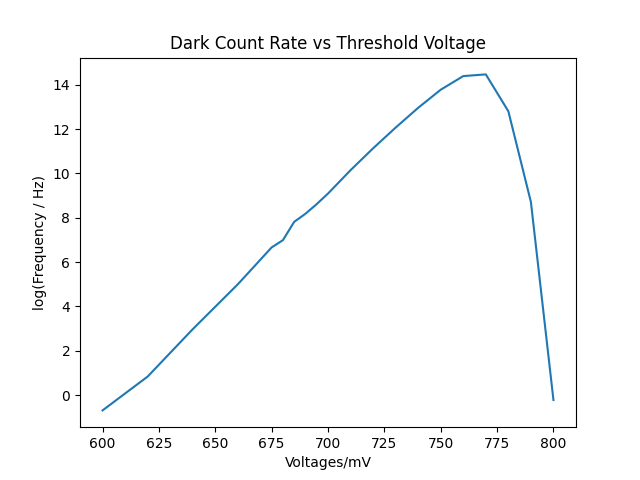
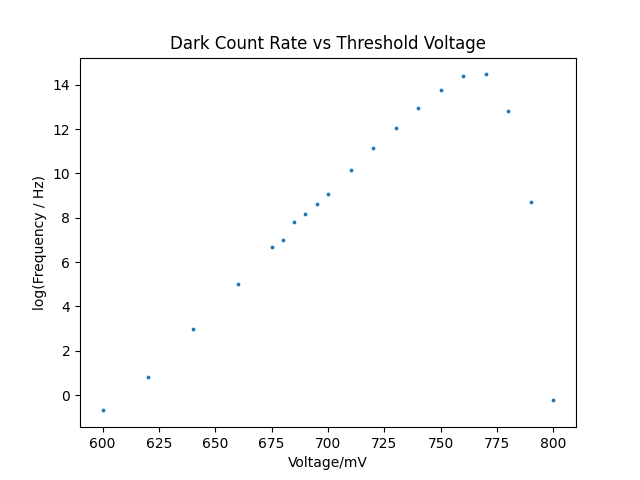
scatter

diff --git a/main.py b/main.py
@@ -7,7 +7,7 @@ import os
 current_directory = os.getcwd()
 entries = os.listdir(current_directory)
 files = [f for f in entries if os.path.isfile(os.path.join(current_directory, f))]
-print(files)
+#print(files)
 
 files_sanitised = []
 files_csv = []
@@ -97,11 +97,10 @@ for file in files_csv:
 
 
 log_counts = np.log(mean_counts)
-plt.scatter(voltages, log_counts, marker='o', label='data', s=3)
+plt.scatter(voltages, log_counts, marker='o', s=3)
 plt.xlabel('Voltage/mV')
 plt.ylabel('log(Frequency / Hz)')
 plt.title('Dark Count Rate vs Threshold Voltage')
-plt.legend()
 plt.savefig('Dark Count 1')
 plt.show()
 
